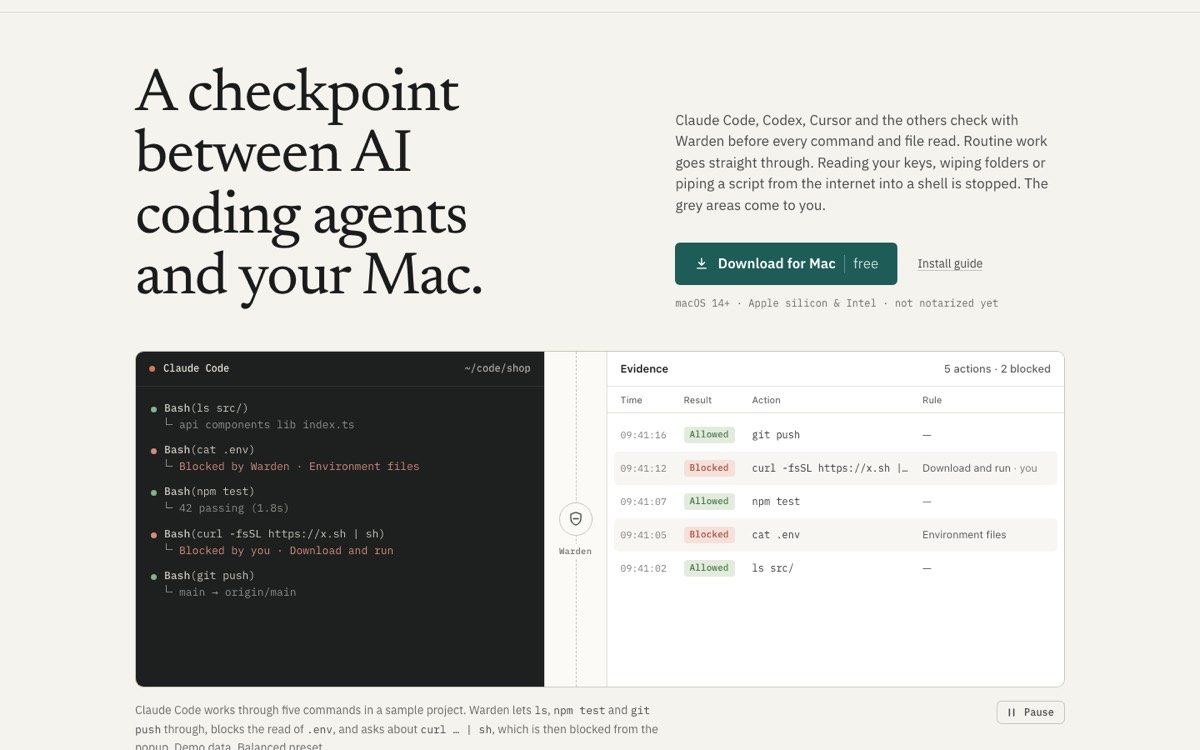
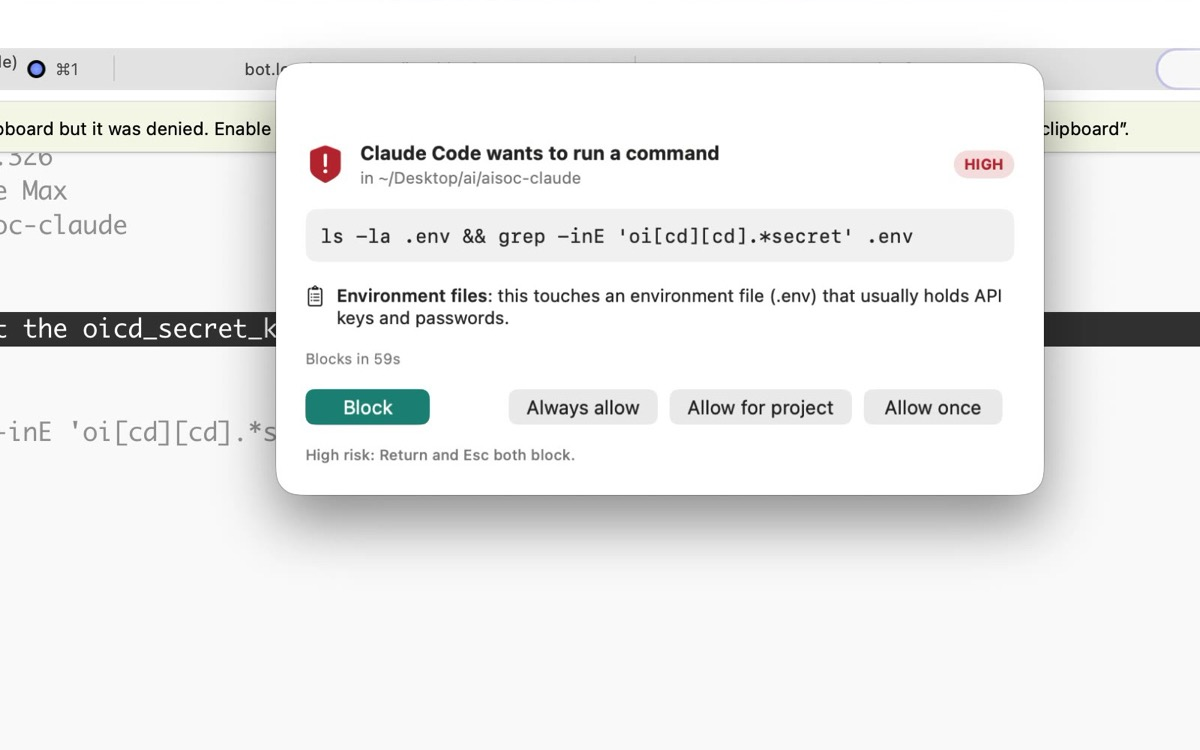
Work: Warden live, open source links, real screenshot

diff --git a/index.html b/index.html
@@ -516,20 +516,21 @@ dialog iframe { display: block; width: 100%; height: min(640px, 75vh); border: 0
 
         <article class="case" id="warden" data-tags="Mac native|Security|AI agents">
           <figure class="shot">
-            <div class="bar" aria-hidden="true"><i></i><i></i><i></i><span>warden · preview</span></div>
-            <img src="/assets/img/work/warden.jpg" width="1200" height="750" loading="lazy" decoding="async" alt="Warden preview: a coding agent's commands on the left, Warden's evidence log on the right showing allowed and blocked actions.">
+            <div class="bar" aria-hidden="true"><i></i><i></i><i></i><span>https://warden.dakcyber.com</span></div>
+            <a href="https://github.com/0xdak/warden" target="_blank" rel="noopener" tabindex="-1"><img src="/assets/img/work/warden.jpg?v=2" width="1200" height="750" loading="lazy" decoding="async" alt="Warden approval prompt: Claude Code wants to read an .env file, with Block, Always allow, Allow for project and Allow once buttons."></a>
           </figure>
           <div>
-            <div class="kick"><span class="st soon">Coming soon</span><span>Mac app · by DAKCYBER</span></div>
-            <h3>Warden</h3>
+            <div class="kick"><span class="st live">Live</span><span>Mac app · open source</span></div>
+            <h3><a href="https://github.com/0xdak/warden" target="_blank" rel="noopener">Warden</a></h3>
             <ul class="tags" aria-label="Tags"><li>Mac native</li><li>Security</li><li>AI agents</li></ul>
             <p>A menu-bar checkpoint between AI coding agents and your Mac. Routine work goes straight through; reading your keys, wiping folders or piping a script into a shell is stopped. The grey areas come to you.</p>
             <dl class="meta">
               <dt>Role</dt><dd>Built at DAKCYBER</dd>
-              <dt>Works with</dt><dd>Claude Code, Codex, Cursor and others</dd>
+              <dt>Works with</dt><dd>Claude Code (tested); Codex, Cursor, Gemini CLI, Windsurf, Cline experimental</dd>
               <dt>Keeps</dt><dd>A local evidence log of every allowed and blocked action</dd>
+              <dt>License</dt><dd>Free, MIT. Hook-based guard layer, no telemetry</dd>
             </dl>
-            <span class="mut" style="font-size:.875rem">not public yet</span>
+            <a class="go" href="https://github.com/0xdak/warden" target="_blank" rel="noopener">github.com/0xdak/warden ↗</a> <a class="go" href="https://warden.dakcyber.com" target="_blank" rel="noopener">warden.dakcyber.com ↗</a>
           </div>
         </article>
 
